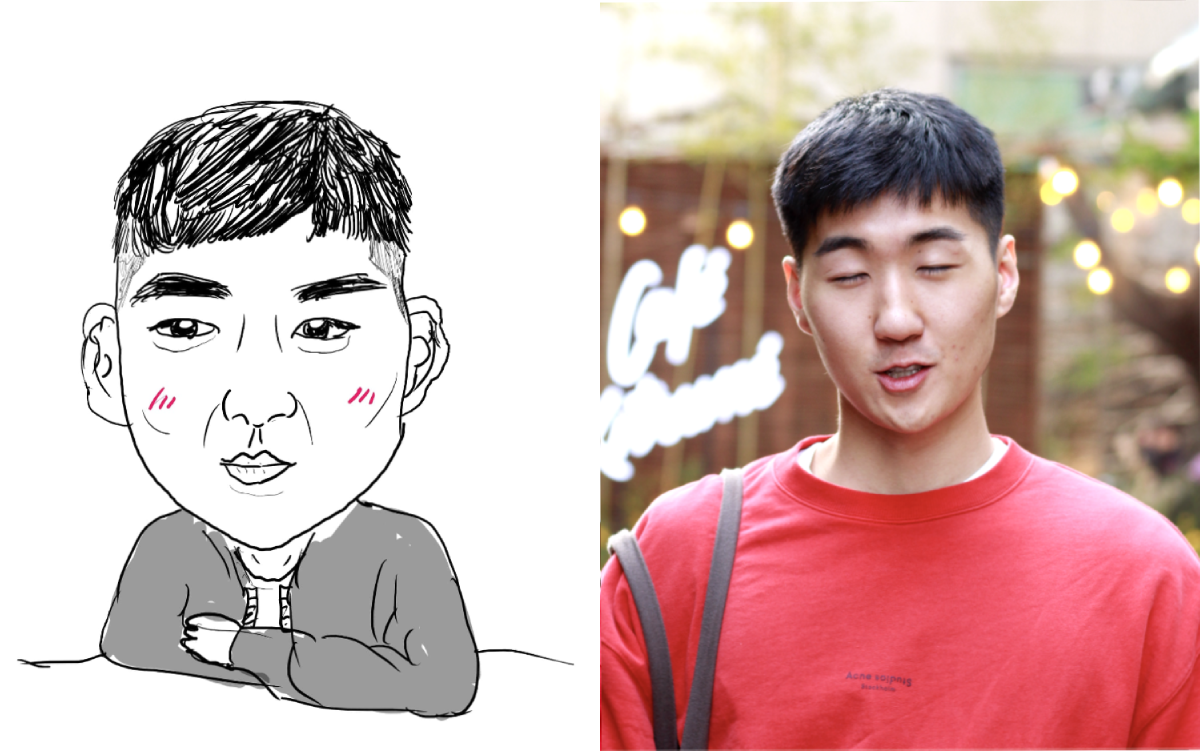
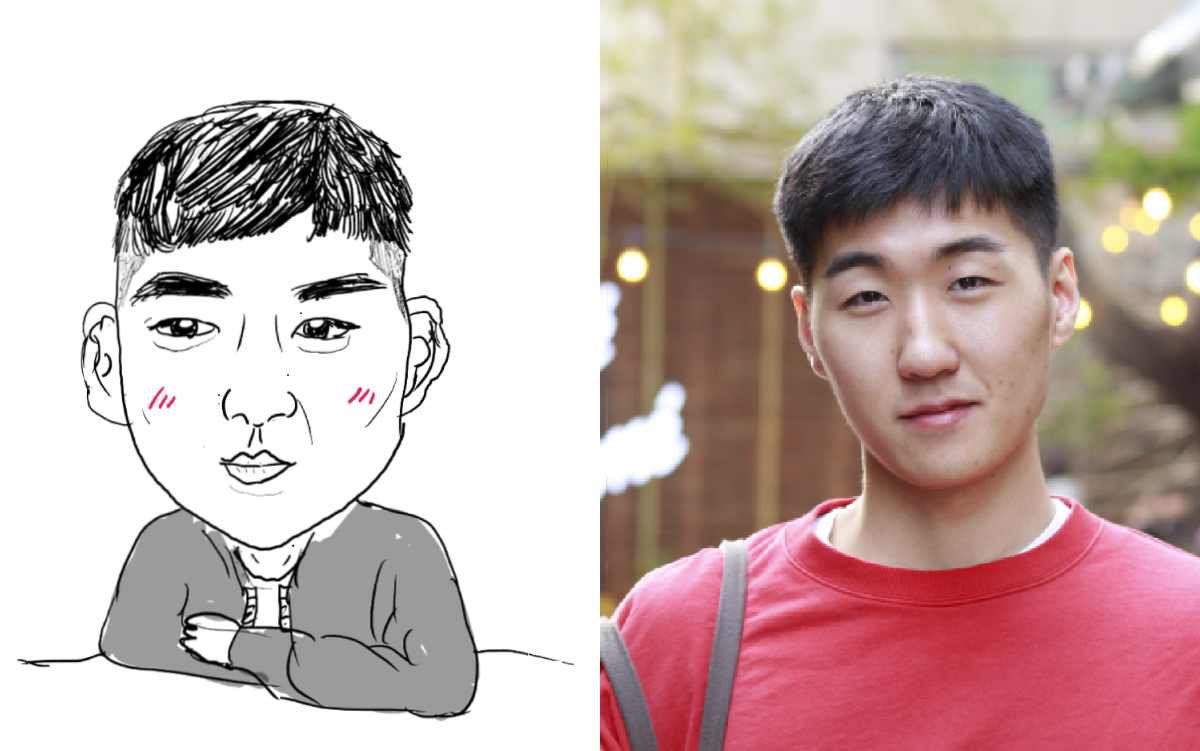
Update home picture

diff --git a/src/App.css b/src/App.css
@@ -201,7 +201,7 @@ svg path {
 .pp-home {
   width: 100%;
   height: 100%;
-  filter: grayscale();
+  /* filter: grayscale(); */
   border: solid black 1px;
 }
 
